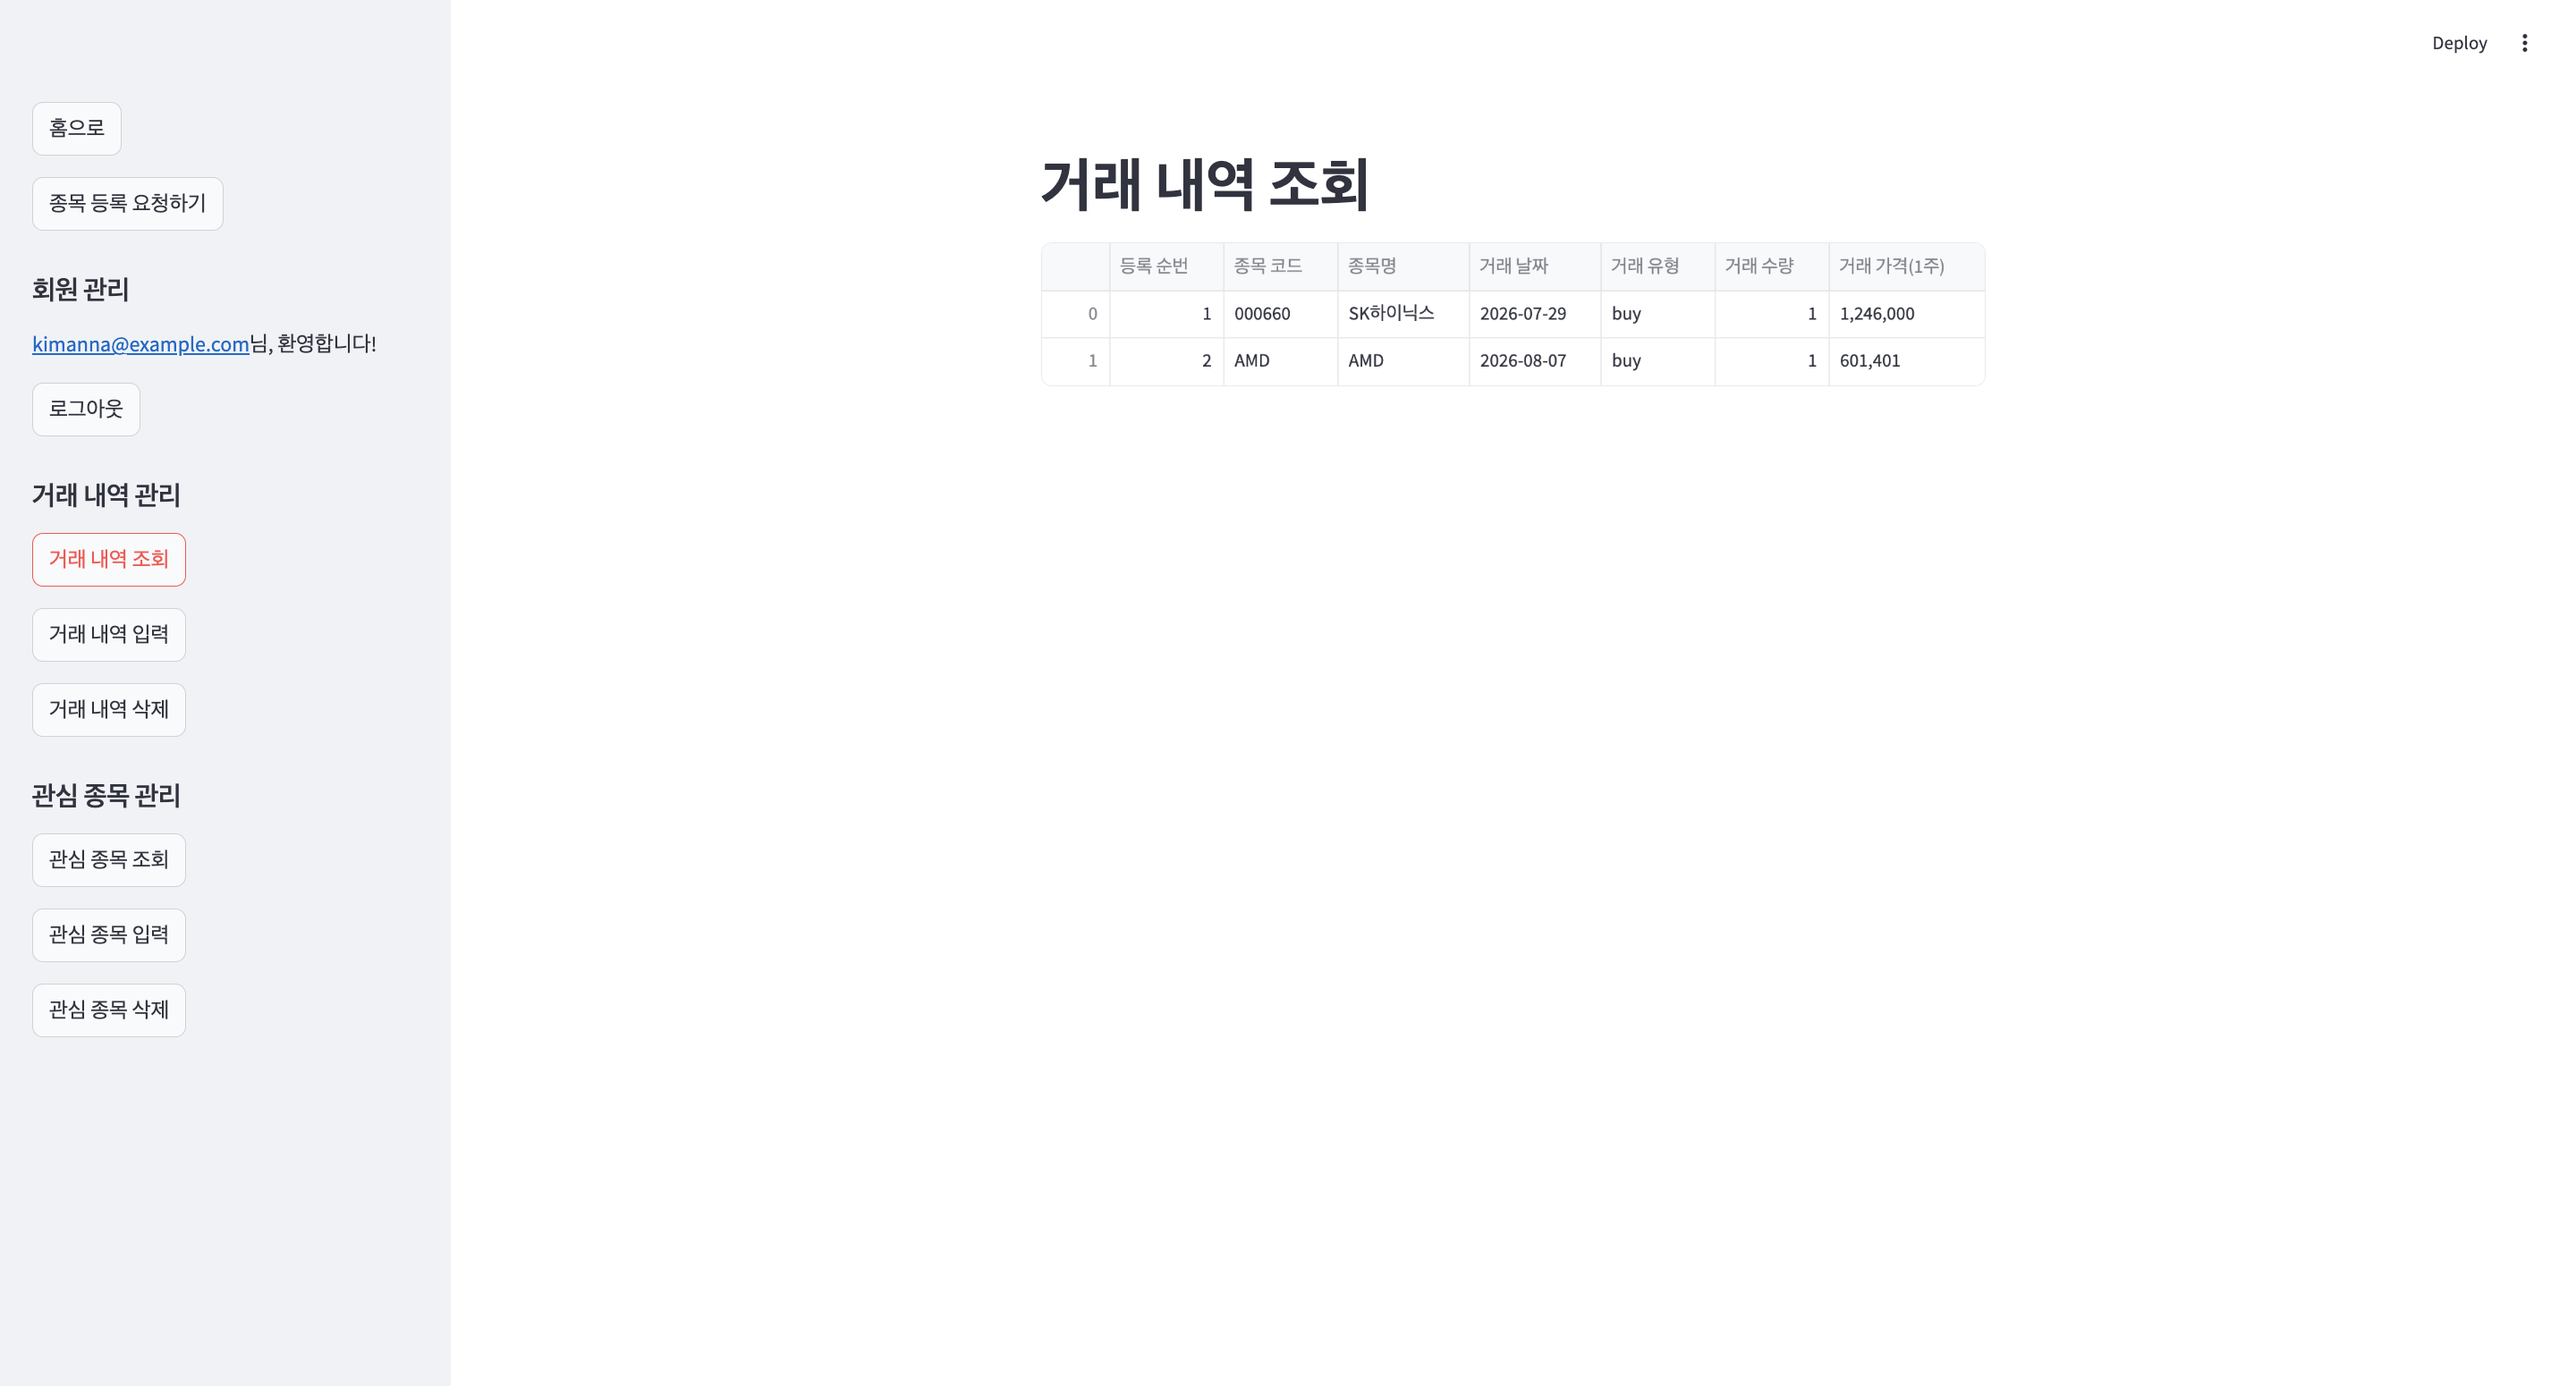
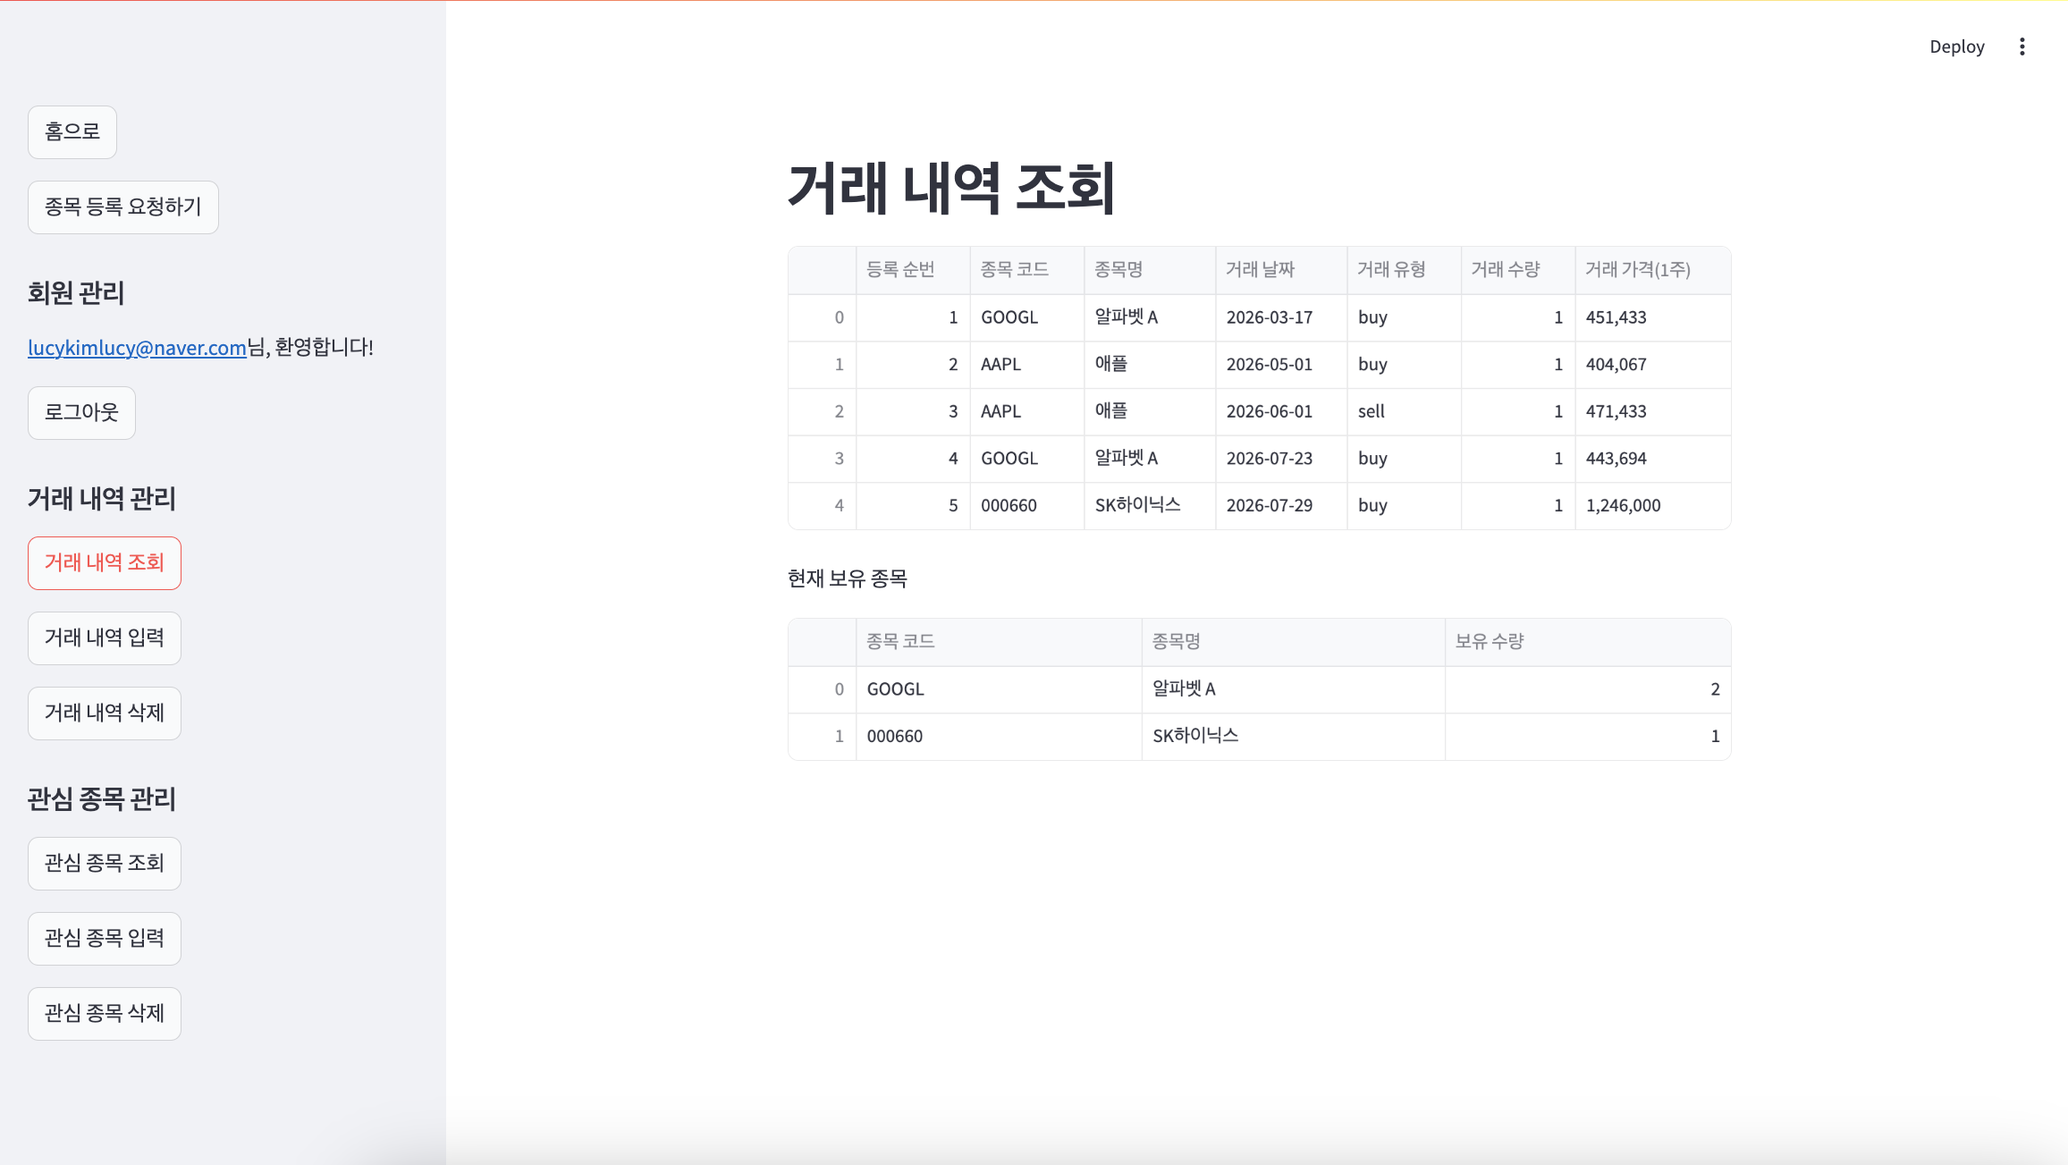
feat: add current holdings and age-based stock visualization

diff --git a/python/app.py b/python/app.py
@@ -1,11 +1,22 @@
+# 기능별 함수 
 from queries import (login, register_member, check_member
                      ,get_transaction_history, insert_transaction_history, delete_transaction_history, get_current_holdings
                      ,get_watchlist, insert_watchlist, delete_watchlist, check_stock, check_watchlist
                      ,get_popular_stocks_by_age, view_stocks 
                      ,stock_request, check_request, show_request, confirm_request)
+# 날짜 데이터 사용을 위함 
 from datetime import date 
+# UI 생성 
 import streamlit as st
+# DataFrame 형식 사용 
 import pandas as pd
+# 데이터 시각화 
+import matplotlib.pyplot as plt 
+# 그래프 눈금 조절 
+from matplotlib.ticker import MultipleLocator
+
+# 한글 폰트 설정 
+plt.rcParams["font.family"] = "AppleGothic"
 
 # 초기 상태 설정 
 if "member_id" not in st.session_state:
@@ -67,12 +78,26 @@ page = st.session_state.get("page", "home")
 if page=="home":
     if st.session_state.member_id:
         st.title(f"{st.session_state.email}님, 환영합니다!")
-        st.write("연령대별 최다 인기 종목 현황")
+
+        st.subheader("연령대별 최다 인기 종목 현황")
+
         result=get_popular_stocks_by_age()
         df=pd.DataFrame(result,
                         columns=["연령대","종목 코드","종목명","관심 인원 수"]
                             )
-        st.dataframe(df)
+
+        age=st.selectbox("연령대를 선택하세요.",sorted(df["연령대"].unique()),
+                         format_func=lambda x: f"{x}대")
+        df_age=df[df["연령대"]==age].sort_values("관심 인원 수", ascending=False)
+
+        st.dataframe(df_age, hide_index=True)
+
+        df_age=df[df["연령대"]==age].sort_values("관심 인원 수", ascending=True)
+        plt.barh(df_age["종목명"], df_age["관심 인원 수"])
+        plt.xlabel("관심 인원 수")
+        plt.gca().xaxis.set_major_locator(MultipleLocator(1))
+        st.pyplot(plt)
+
     else:
         st.title("주렁주렁")
         st.write("개인 투자 포트폴리오 관리 웹 서비스입니다. 로그인 후 기능들을 이용할 수 있습니다.")
@@ -121,13 +146,18 @@ if page=="transaction_history":
             df=df.drop(columns=["거래 ID"])
             df.insert(0,"등록 순번",range(1,len(df)+1))
             df["거래 가격(1주)"]=df["거래 가격(1주)"].apply(lambda x: f"{x:,}")
-            st.dataframe(df)
+            st.dataframe(df, hide_index=True)
 
-            st.write("현재 보유 종목")
+            st.subheader("현재 보유 종목")
             result2=get_current_holdings(st.session_state.member_id)
             df2=pd.DataFrame(result2, 
                              columns=["종목 코드","종목명","보유 수량"])
-            st.dataframe(df2)
+            st.dataframe(df2, hide_index=True)
+
+            plt.bar(df2["종목명"], df2["보유 수량"], width=0.2)
+            plt.xlabel("종목명")
+            plt.ylabel("보유 수량")
+            st.pyplot(plt)
 
         else:
             st.write("저장된 거래 내역이 없습니다.")
@@ -144,7 +174,7 @@ if page=="insert_transaction_history":
         df=pd.DataFrame(result,
                         columns=["종목 코드","종목명"]
                             )
-        st.dataframe(df)
+        st.dataframe(df, hide_index=True)
 
         stock_code = st.text_input("종목 코드:")
         transaction_date = st.date_input("거래 날짜:", value=date.today(), min_value=date(1900,1,1), max_value=date.today())
@@ -173,7 +203,7 @@ if page=="delete_transaction_history":
             df.insert(0,"등록 순번",range(1,len(df)+1))
             df["거래 가격(1주)"]=df["거래 가격(1주)"].apply(lambda x: f"{x:,}")
 
-            st.dataframe(df)
+            st.dataframe(df, hide_index=True)
 
             delete_id = st.number_input("삭제할 거래 등록 순번을 입력하세요:", min_value=1, max_value=len(df), step=1)
             if st.button("삭제하기"):
@@ -198,7 +228,7 @@ if page=="watchlist":
                                 )
             df=df.drop(columns=["관심 목록 ID"])
             df.insert(0,"등록 순번",range(1,len(df)+1))
-            st.dataframe(df)
+            st.dataframe(df, hide_index=True)
         else:
             st.write("저장된 관심 종목이 없습니다.")
 
@@ -214,7 +244,7 @@ if page=="insert_watchlist":
         df=pd.DataFrame(result,
                         columns=["종목 코드","종목명"]
                             )
-        st.dataframe(df)
+        st.dataframe(df, hide_index=True)
 
         stock_code = st.text_input("관심 종목 코드:")
         if st.button("추가하기"):
@@ -240,7 +270,7 @@ if page=="delete_watchlist":
                                 )
             df=df.drop(columns=["관심 목록 ID"])
             df.insert(0,"등록 순번",range(1,len(df)+1))
-            st.dataframe(df)
+            st.dataframe(df, hide_index=True)
 
             delete_code = st.text_input("삭제할 관심 종목 코드를 입력하세요:")
             if st.button("삭제하기"):
@@ -279,7 +309,7 @@ if page=="request_manage":
     if result:
         df=pd.DataFrame(result,
                         columns=["등록 순번","회원 ID", "종목 코드","종목 이름","등록 날짜","처리 상태"])
-        st.dataframe(df)
+        st.dataframe(df, hide_index=True)
 
         request_id=st.number_input("등록 처리할 순번을 입력하세요.:", min_value=1,max_value=len(df), step=1 )
         if st.button("등록 처리"):

diff --git a/python/queries.py b/python/queries.py
@@ -109,7 +109,7 @@ def get_popular_stocks_by_age():
     s.stock_code, 
     s.stock_name, 
     COUNT(w.member_id) AS '관심 회원 수',
-    RANK() OVER (PARTITION BY FLOOR(TIMESTAMPDIFF(YEAR, m.birth_date, CURDATE()) / 10) * 10 ORDER BY COUNT(*) DESC) as ranking
+    ROW_NUMBER() OVER (PARTITION BY FLOOR(TIMESTAMPDIFF(YEAR, m.birth_date, CURDATE()) / 10) * 10 ORDER BY COUNT(*) DESC) as ranking
     FROM WATCHLIST w
     INNER JOIN STOCK s
     ON w.stock_code = s.stock_code
@@ -118,7 +118,7 @@ def get_popular_stocks_by_age():
     GROUP BY 
     FLOOR(TIMESTAMPDIFF(YEAR, m.birth_date, CURDATE()) / 10) * 10,
     s.stock_code) s
-    where ranking=1
+    where ranking<=3
     order by `연령대`;  
     """)
 
